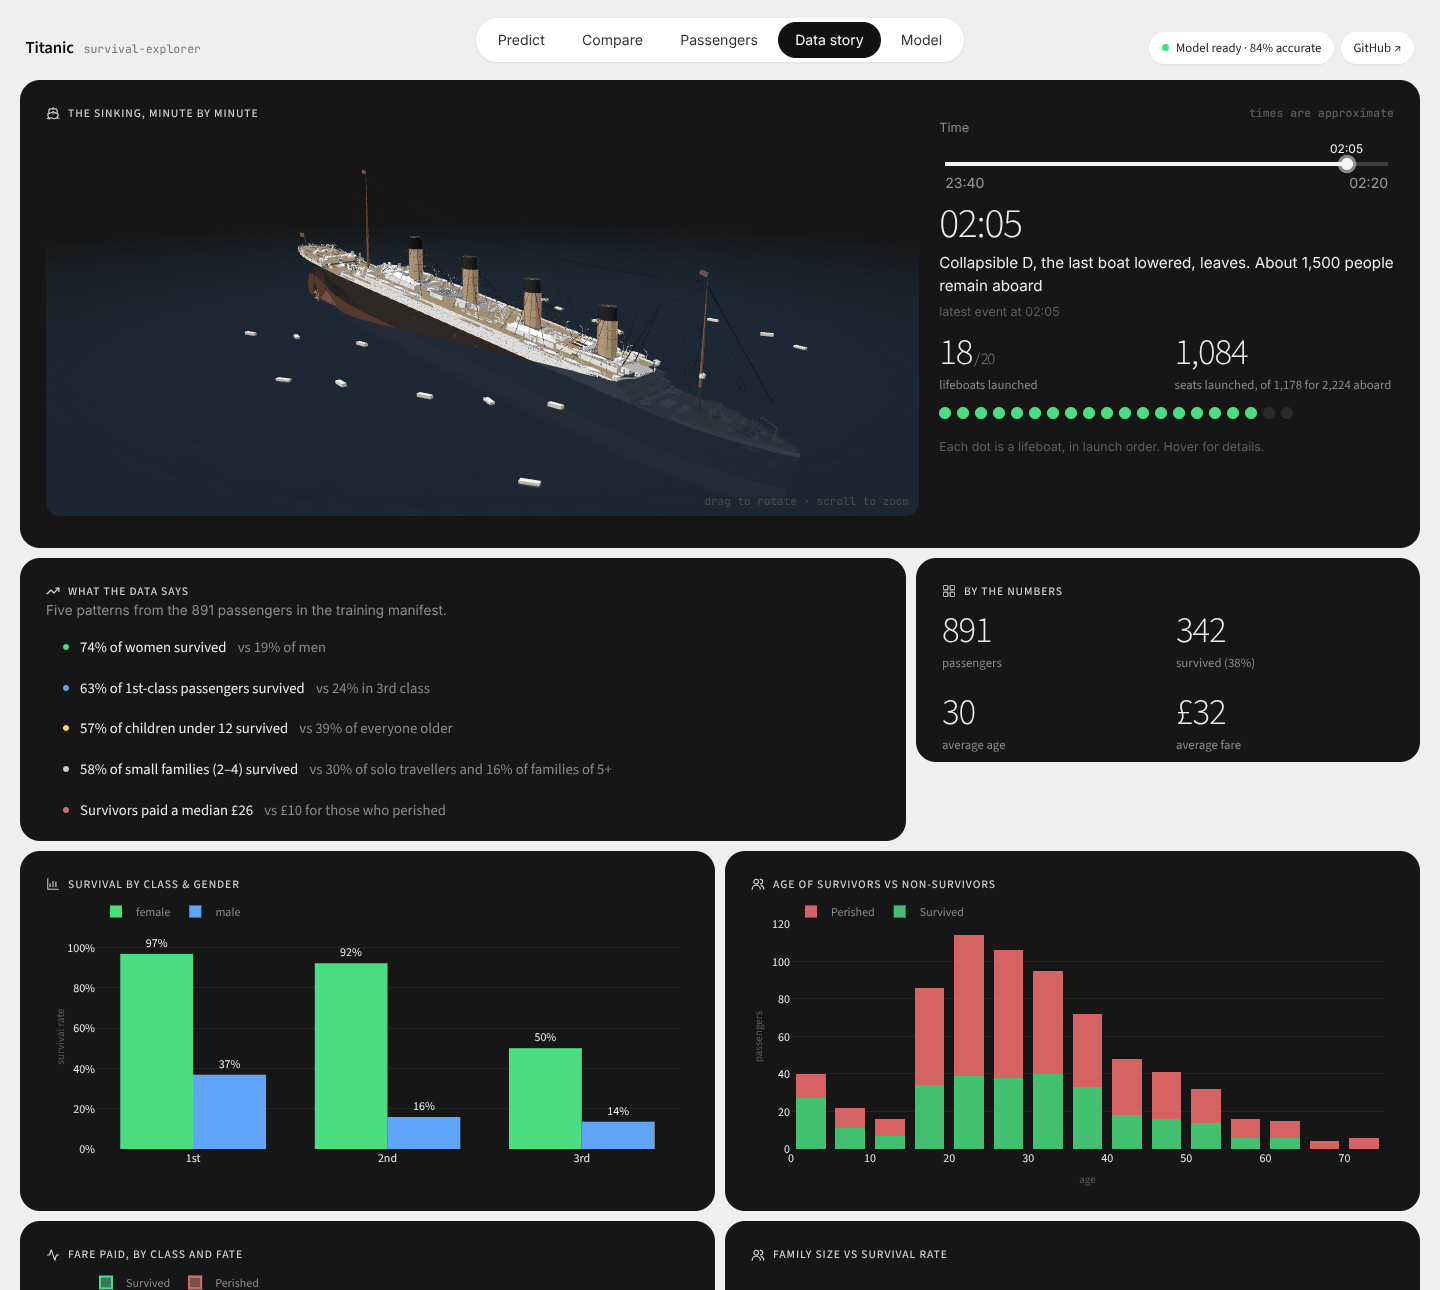
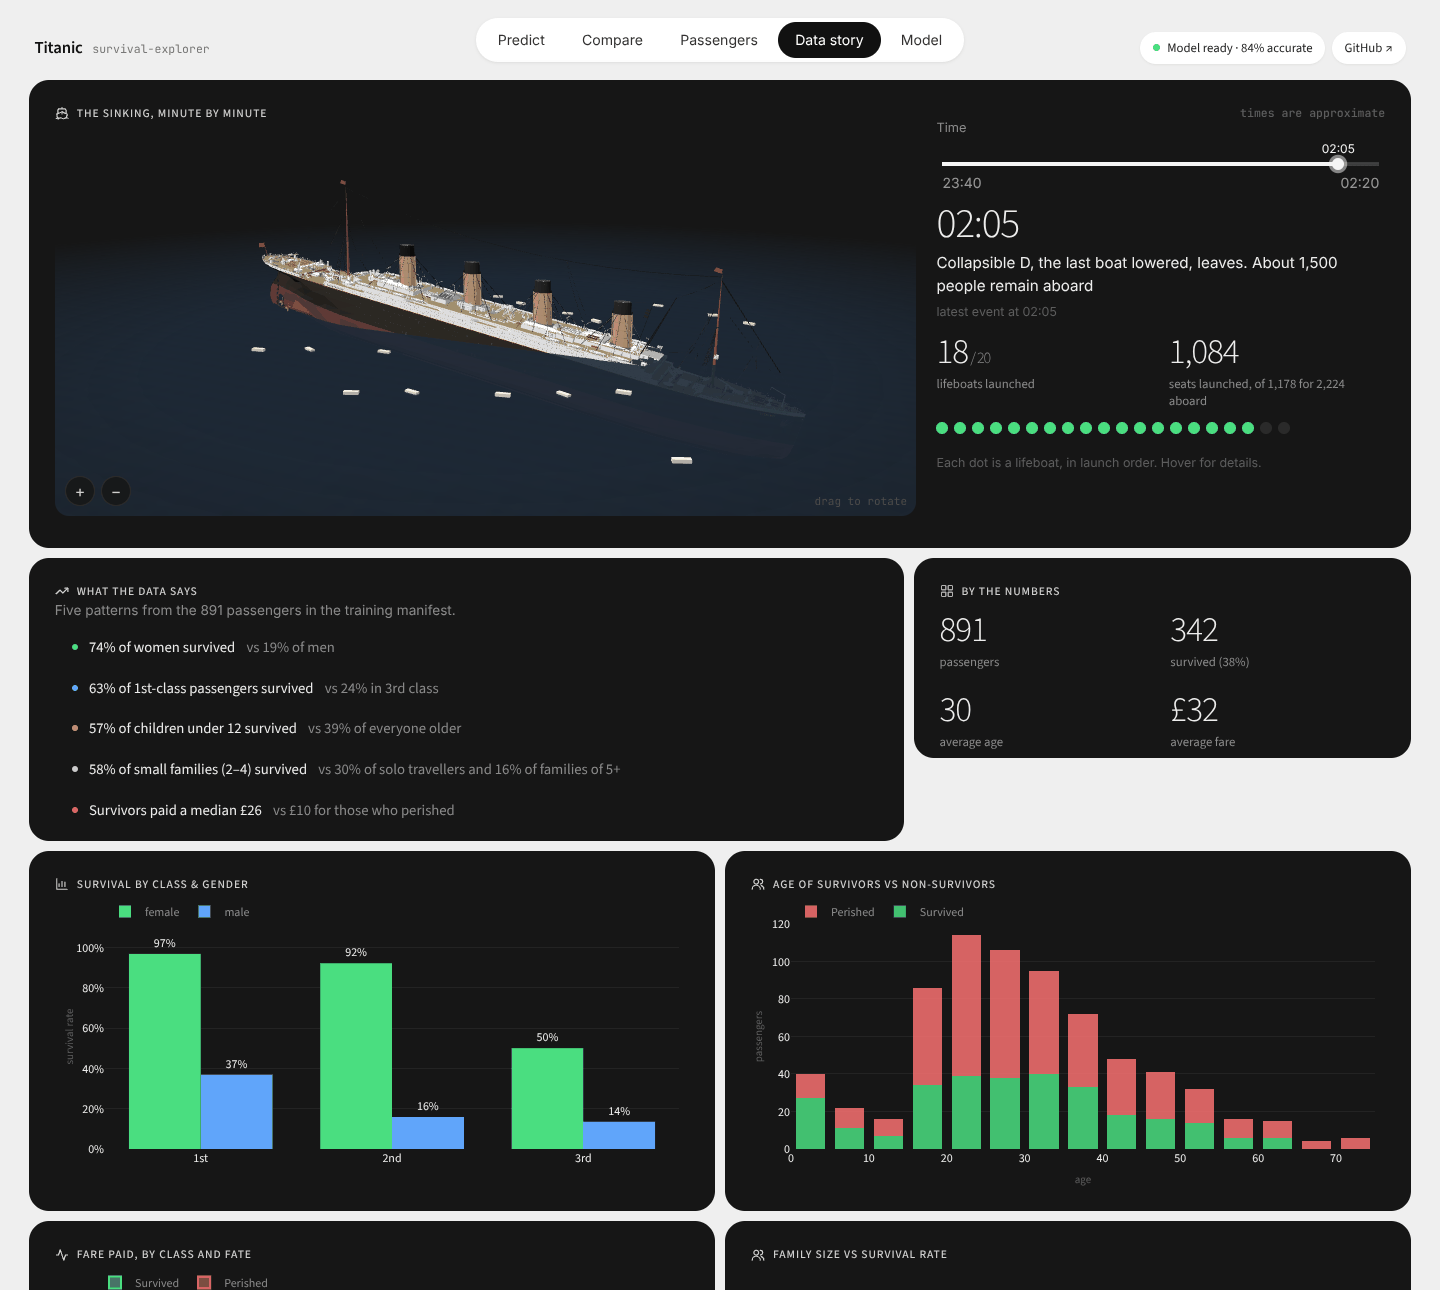
Make the UI responsive from phones to ultra-wide screens
- Content fills the screen instead of capping at 1480px; headline and stat
  sizes scale with the viewport.
- Card rows stack below 1100px with the passenger inputs moved above the
  prediction; the sinking and simulator cards stack their insides below 900px.
- Phones: scrollable tab bar, tighter cards, two-column stats, findings and
  value chips that wrap instead of squeezing.
- 3D viewer: scrolling over it scrolls the page (zoom moved to +/- buttons),
  vertical swipes scroll on touch screens, the field of view adapts so the
  whole ship stays in frame, the frame height follows its width, and on very
  narrow screens the lifeboat label moves to a legend so tags don't overlap.
- README: refreshed screenshots plus a phone screenshot.

diff --git a/ship_viewer/ship.js b/ship_viewer/ship.js
@@ -54,6 +54,18 @@ controls.minDistance = 220;
 controls.maxDistance = 1400;
 controls.maxPolarAngle = Math.PI * 0.49;
 controls.autoRotateSpeed = 0.6;
+// Scrolling the page over the ship must scroll the page, not zoom the model, and on touch
+// screens vertical swipes scroll the page while horizontal drags rotate the ship.
+controls.enableZoom = false;
+renderer.domElement.style.touchAction = 'pan-y';
+
+function zoomBy(factor) {
+  const offset = camera.position.clone().sub(controls.target);
+  const len = THREE.MathUtils.clamp(offset.length() * factor, controls.minDistance, controls.maxDistance);
+  camera.position.copy(controls.target).add(offset.setLength(len));
+}
+document.getElementById('zoom-in').addEventListener('click', () => zoomBy(0.8));
+document.getElementById('zoom-out').addEventListener('click', () => zoomBy(1.25));
 
 scene.add(new THREE.HemisphereLight(0xffffff, 0x1b2430, 2.2));
 const sun = new THREE.DirectionalLight(0xffffff, 2.0);
@@ -115,6 +127,7 @@ const glow = radialTexture('rgba(255,255,255,1)', 'rgba(255,255,255,0)');
 let markers = [];
 function setMarkers(list) {
   for (const m of markers) { ship.remove(m.group); m.tag.remove(); }
+  const legend = [];
   markers = (list || []).map((spec) => {
     const group = new THREE.Group();
     group.position.fromArray(ANCHORS[spec.at] || [0, 40, 0]);
@@ -128,18 +141,19 @@ function setMarkers(list) {
     group.add(halo, dot);
     ship.add(group);
     const tag = document.createElement('div');
-    tag.className = 'tag';
+    tag.className = spec.pulse ? 'tag' : 'tag secondary';
     tag.innerHTML = `<span style="color:${spec.color}">●</span> ${spec.title || ''}<small>${spec.sub || ''}</small>`;
     if (spec.title) stage.appendChild(tag);
+    if (spec.title && !spec.pulse) legend.push(`<span style="color:${spec.color}">●</span> ${spec.title}`);
     return { group, halo, tag, pulse: !!spec.pulse };
   });
+  document.getElementById('legend').innerHTML = legend.join('&nbsp;&nbsp;');
 }
 
 // ── Args → state ──
 const target = { pitch: 0, sink: 0 };
 function apply(a) {
   args = { ...args, ...a };
-  post('streamlit:setFrameHeight', { height: args.height });
   setMarkers(args.mode === 'berth' ? args.markers : []);
   target.pitch = THREE.MathUtils.degToRad(args.mode === 'sink' ? args.pitch : 0);
   target.sink = args.mode === 'sink' ? args.sink : 0;
@@ -168,7 +182,7 @@ new GLTFLoader().load('./titanic.glb', (gltf) => {
 });
 
 // ── Camera ──
-camera.position.set(340, 140, 360);
+camera.position.set(220, 150, 450);
 controls.target.set(0, 30, 0);
 if (query.get('cam')) {   // standalone debugging: ?cam=x,y,z
   camera.position.fromArray(query.get('cam').split(',').map(Number));
@@ -186,14 +200,22 @@ if (query.has('debug')) {  // ?debug: hide the sea, draw a 10-unit grid on the s
   scene.add(new THREE.LineSegments(g, new THREE.LineBasicMaterial({ color: 0xff00ff, depthTest: false })));
 }
 
+let frameHeight = 0;
 function resize() {
   const w = stage.clientWidth || window.innerWidth;
-  const h = args.height || window.innerHeight;
+  // On narrow screens shrink the frame so the ship isn't lost in a tall, skinny box
+  const h = Math.round(Math.min(args.height || 400, Math.max(240, w * 0.75)));
+  if (h !== frameHeight) {
+    frameHeight = h;
+    post('streamlit:setFrameHeight', { height: h });
+  }
   stage.style.height = `${h}px`;
   renderer.setSize(w, h);
   camera.aspect = w / h;
-  // keep the whole ship in frame on narrow screens
-  camera.fov = camera.userData.fov || (w / h < 1.4 ? 40 : 28);
+  // Keep the ship's full length in frame at any aspect ratio: hold the horizontal field of
+  // view roughly constant (~60°) and derive the vertical one from it.
+  const vfov = THREE.MathUtils.radToDeg(2 * Math.atan(0.57 / (w / h)));
+  camera.fov = camera.userData.fov || THREE.MathUtils.clamp(vfov, 24, 75);
   camera.updateProjectionMatrix();
 }
 window.addEventListener('resize', resize);

diff --git a/ship_viewer/index.html b/ship_viewer/index.html
@@ -22,11 +22,26 @@
     #loading { position: absolute; inset: 0; display: grid; place-items: center; color: #5c5c5c;
                font: 12px 'JetBrains Mono', monospace; }
     #help { position: absolute; right: 10px; bottom: 8px; color: #4a4a4a; font: 11px 'JetBrains Mono', monospace; }
+    #zoom { position: absolute; left: 10px; bottom: 10px; display: flex; gap: 6px; }
+    #zoom button {
+      width: 30px; height: 30px; border-radius: 50%; border: 1px solid #2c2c2c; background: rgba(22,22,22,.85);
+      color: #cfcfcf; font: 16px/1 Inter, system-ui, sans-serif; cursor: pointer; padding: 0;
+    }
+    #zoom button:hover { background: #262626; }
+    #legend { display: none; position: absolute; left: 10px; top: 8px; color: #8a8a8a; font-size: 11px; }
+    @media (max-width: 480px) {
+      #help { display: none; }
+      .tag { font-size: 11px; padding: 4px 8px; }
+      .tag small { font-size: 10px; }
+      .tag.secondary { display: none; }
+      #legend { display: block; }
+    }
   </style>
   <script type="importmap">{ "imports": { "three": "./vendor/three.module.min.js" } }</script>
 </head>
 <body>
-  <div id="stage"><div id="loading">loading ship…</div><div id="help">drag to rotate · scroll to zoom</div></div>
+  <div id="stage"><div id="loading">loading ship…</div><div id="help">drag to rotate</div><div id="legend"></div>
+    <div id="zoom"><button id="zoom-in" title="Zoom in" aria-label="Zoom in">+</button><button id="zoom-out" title="Zoom out" aria-label="Zoom out">−</button></div></div>
   <script type="module" src="./ship.js"></script>
 </body>
 </html>

diff --git a/ui.py b/ui.py
@@ -58,7 +58,7 @@ CSS = """
 html, body, .stApp, .stApp p, .stApp label, .stApp input, .stApp button, .stApp textarea {
   font-family: 'Inter', system-ui, sans-serif;
 }
-.block-container { padding: 1.25rem 1.25rem 2rem !important; max-width: 1480px; }
+.block-container { padding: 1.25rem clamp(.75rem, 2vw, 2.5rem) 2rem !important; max-width: none; }
 header[data-testid="stHeader"] { display: none; }
 [data-testid="stHorizontalBlock"] { gap: 10px; }
 .stApp [data-testid="stVerticalBlock"] { gap: 10px; }
@@ -93,6 +93,9 @@ header[data-testid="stHeader"] { display: none; }
 .stTabs .react-aria-SelectionIndicator, .stTabs [data-baseweb="tab-highlight"],
 .stTabs [data-baseweb="tab-border"] { display: none; }
 .stTabs [role="tabpanel"] { padding-top: 1.1rem; }
+/* Streamlit's overflow arrows fade from the theme colour; match the light page instead */
+.stTabs [data-testid="stTabsScrollRight"] { background-image: linear-gradient(to right, rgba(239,239,239,0), #efefef 55%) !important; color: #444 !important; }
+.stTabs [data-testid="stTabsScrollLeft"] { background-image: linear-gradient(to left, rgba(239,239,239,0), #efefef 55%) !important; color: #444 !important; }
 
 /* ── Cards ────────────────────────────────────────── */
 [class*="st-key-card_"] {
@@ -108,10 +111,10 @@ header[data-testid="stHeader"] { display: none; }
 .stApp p.tiny { color: var(--dim); font-size: .78rem; margin: .3rem 0 0; }
 
 /* Big thin numbers */
-.big { font-size: 3.6rem; font-weight: 300; letter-spacing: -.035em; line-height: 1; color: var(--text); }
+.big { font-size: clamp(2.4rem, 1.6rem + 2.2vw, 3.6rem); font-weight: 300; letter-spacing: -.035em; line-height: 1; color: var(--text); }
 .headline span { letter-spacing: 0; }
 .big small { font-size: 1rem; letter-spacing: 0; color: var(--muted); font-weight: 400; margin-left: .5rem; }
-.headline { font-size: 2.6rem; font-weight: 300; letter-spacing: -.03em; line-height: 1.1; color: var(--text); margin: .2rem 0 .35rem; }
+.headline { font-size: clamp(1.9rem, 1.3rem + 1.5vw, 2.6rem); font-weight: 300; letter-spacing: -.03em; line-height: 1.1; color: var(--text); margin: .2rem 0 .35rem; }
 
 /* Mono chips */
 .chip {
@@ -156,7 +159,7 @@ header[data-testid="stHeader"] { display: none; }
 /* Stat grid */
 .stats { display: grid; grid-template-columns: repeat(2, 1fr); gap: 1.4rem 1rem; margin-top: 1.1rem; }
 .stats.four { grid-template-columns: repeat(4, 1fr); }
-.stat-n { font-size: 2.3rem; font-weight: 300; letter-spacing: -.03em; line-height: 1; color: var(--text); }
+.stat-n { font-size: clamp(1.7rem, 1.3rem + 1vw, 2.3rem); font-weight: 300; letter-spacing: -.03em; line-height: 1; color: var(--text); }
 .stat-l { font-size: .8rem; color: var(--muted); margin-top: .35rem; line-height: 1.35; }
 
 /* Bulleted findings */
@@ -195,10 +198,64 @@ header[data-testid="stHeader"] { display: none; }
 .foot { text-align: center; color: #888; font-size: .78rem; padding: .75rem 0 0; }
 .foot a { color: #444; }
 
+/* ── Responsive layout ───────────────────────────────
+   "Layout rows" are the page-level st.columns whose columns hold cards; columns
+   used inside a card (e.g. two sliders side by side) are left alone. */
+[data-testid="stHorizontalBlock"]:has(> [data-testid="stColumn"] > [data-testid="stVerticalBlock"] > [data-testid="stLayoutWrapper"] > [class*="st-key-card_"]) {
+  align-items: stretch;
+}
+.stats > div { min-width: 0; }
+.row-main { overflow-wrap: anywhere; }
+
+/* Tablets and small laptops: tabs drop below the brand row, card rows stack */
+@media (max-width: 1100px) {
+  .stTabs [role="tablist"] { margin-top: .6rem; }
+  [data-testid="stHorizontalBlock"]:has(> [data-testid="stColumn"] > [data-testid="stVerticalBlock"] > [data-testid="stLayoutWrapper"] > [class*="st-key-card_"]) {
+    flex-wrap: wrap;
+  }
+  [data-testid="stHorizontalBlock"]:has(> [data-testid="stColumn"] > [data-testid="stVerticalBlock"] > [data-testid="stLayoutWrapper"] > [class*="st-key-card_"]) > [data-testid="stColumn"] {
+    flex: 1 1 100% !important; width: 100% !important; min-width: 100% !important;
+  }
+  /* once stacked, put the passenger inputs above the prediction they drive */
+  [data-testid="stColumn"]:has(.st-key-card_setup) { order: -1; }
+}
+
+/* Inside wide cards: stack the 3D ship above its controls, the chart above its stats */
 @media (max-width: 900px) {
+  .st-key-card_sinking [data-testid="stHorizontalBlock"], .st-key-card_sim [data-testid="stHorizontalBlock"] { flex-wrap: wrap; }
+  .st-key-card_sinking [data-testid="stHorizontalBlock"] > [data-testid="stColumn"],
+  .st-key-card_sim [data-testid="stHorizontalBlock"] > [data-testid="stColumn"] {
+    flex: 1 1 100% !important; width: 100% !important; min-width: 100% !important;
+  }
   .stats.four { grid-template-columns: repeat(2, 1fr); }
-  .stTabs [role="tablist"] { margin-top: .5rem; flex-wrap: wrap; }
+}
+
+/* Phones */
+@media (max-width: 640px) {
+  .block-container { padding: .75rem .6rem 1.5rem !important; }
+  .topbar { padding: 0 .25rem; }
   .top-pills { display: none; }
+  .stTabs [role="tablist"] {
+    width: auto; max-width: 100%; margin: .6rem 0 0; justify-content: flex-start;
+    overflow-x: auto; flex-wrap: nowrap; scrollbar-width: none;
+  }
+  .stTabs [role="tablist"]::-webkit-scrollbar { display: none; }
+  .stTabs [role="tab"] { padding: .4rem .8rem; flex: none; }
+  .stTabs [role="tab"] p { font-size: .82rem; }
+  [class*="st-key-card_"] { padding: 18px 16px; border-radius: 16px; }
+  .stats, .stats[style] { grid-template-columns: repeat(2, minmax(0, 1fr)) !important; gap: 1.1rem .8rem; }
+  .row { gap: .65rem; padding: .6rem .15rem; }
+  .row-v { font-size: .74rem; }
+  .row-v { display: flex; flex-direction: column; align-items: flex-end; gap: .3rem; }
+  .lbl .lbl-r { display: none; }
+  .cm { font-size: .7rem; }
+  .cm .cell { padding: .7rem; }
+  .cm .cell b { font-size: 1.35rem; }
+  .pbar-meta { flex-direction: column; gap: .2rem; }
+  .dots li { display: block; position: relative; padding-left: 1.1rem; }
+  .dots li::before { position: absolute; left: 0; top: .95rem; }
+  .dots li span { display: block; margin-top: .1rem; }
+}
 }
 </style>
 """

diff --git a/app.py b/app.py
@@ -249,7 +249,7 @@ with tab1:
                                                    opacity=0.85, xbins=dict(start=0, end=1, size=0.05)))
                 fig_sim.add_vline(x=prob, line_dash="dot", line_color="#ededed",
                                   annotation_text=f" you · {prob:.0%}", annotation_font_color="#ededed",
-                                  annotation_position="top right")
+                                  annotation_position="top left" if prob > 0.7 else "top right")
                 fig_sim.update_layout(barmode="overlay", margin=dict(t=30, b=10, l=10, r=10),
                                       xaxis=dict(tickformat=".0%", range=[0, 1]),
                                       yaxis=dict(title="passengers"))

diff --git a/README.md b/README.md
@@ -31,6 +31,11 @@ Scrub through the night of 14–15 April 1912. The ship pitches and sinks as lif
 ### Model: how accurate, and how fair?
 ![Model](docs/screenshots/model.png)
 
+### On your phone
+The layout adapts from phones to ultra-wide screens: cards stack (with your inputs first), the tab bar scrolls, and the 3D ship resizes to fit. Scrolling over the ship scrolls the page; use the + / − buttons to zoom.
+
+<p align="center"><img src="docs/screenshots/mobile.png" alt="Phone layout" width="560"></p>
+
 <details>
 <summary>Compare and Passengers tabs</summary>
 
